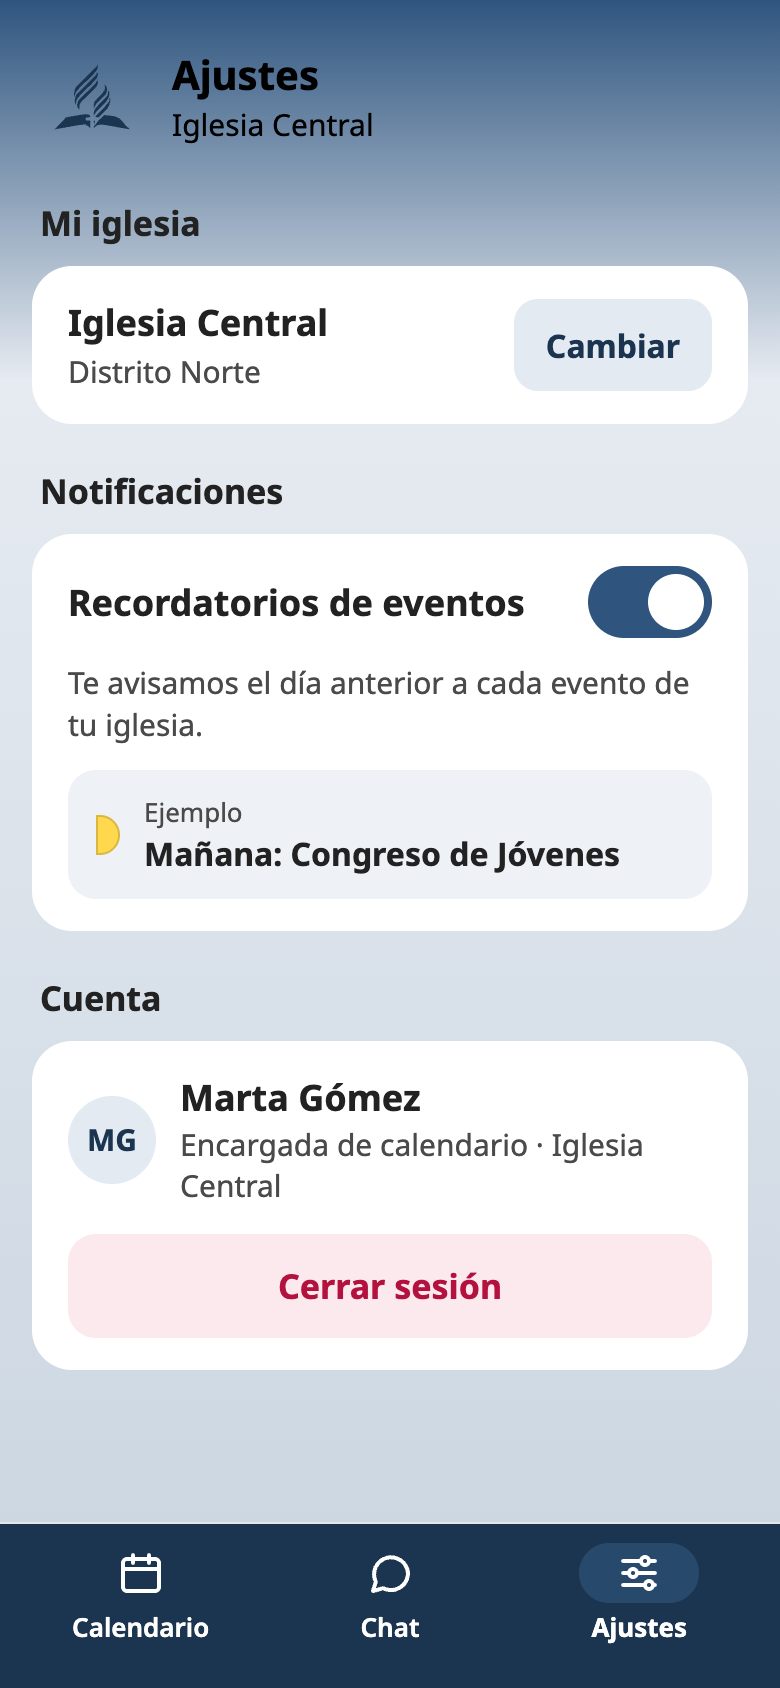
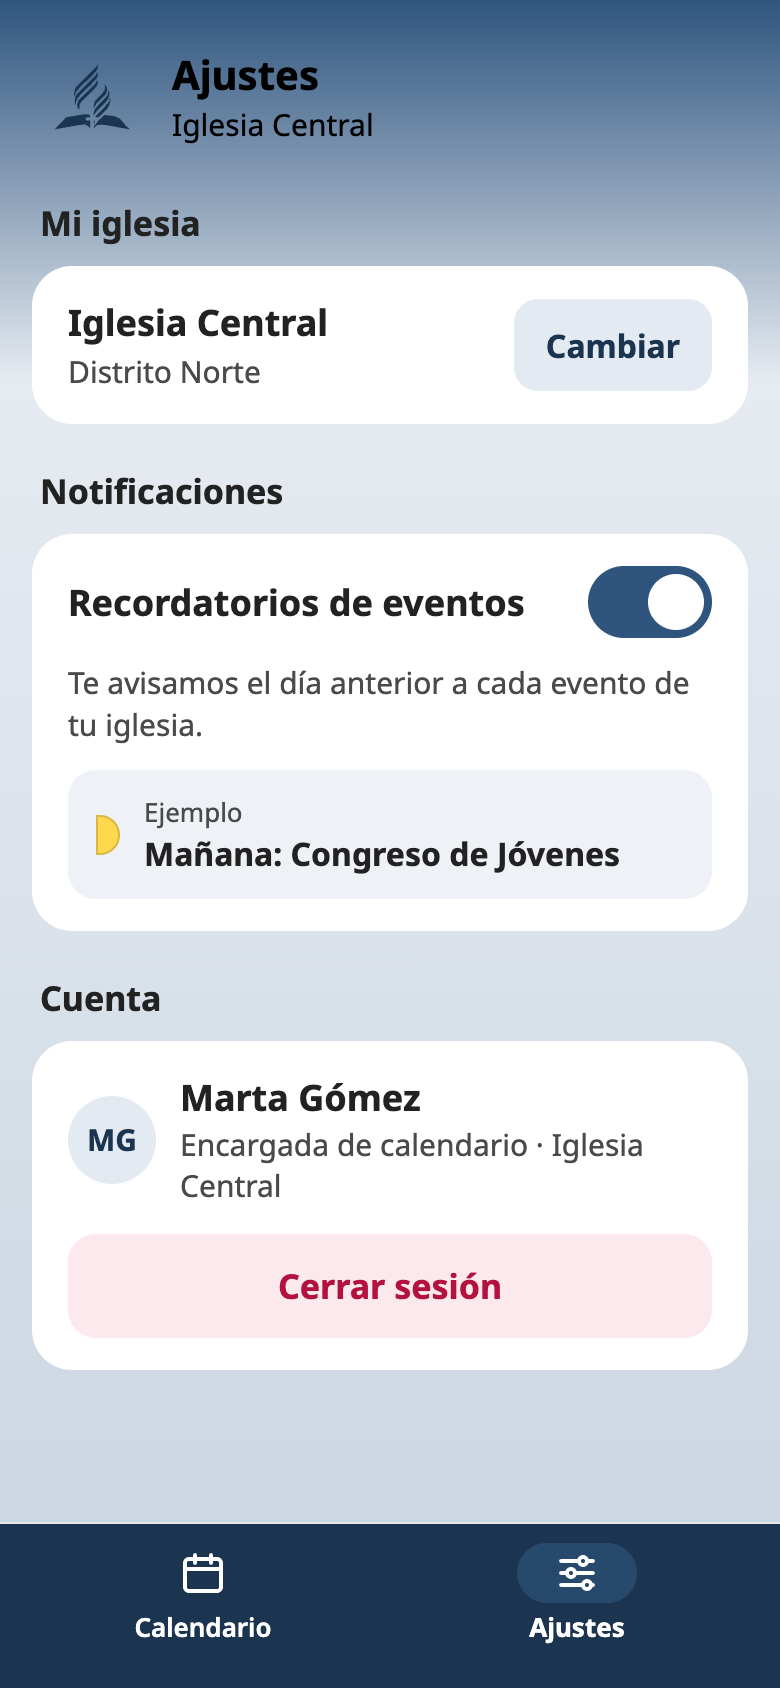
docs(diseno): remove the Chat tab from the bottom navigation mockups

Changed region(s): [[0.6462, 0.8934, 0.8923, 0.9858], [0.0923, 0.9242, 0.3385, 0.9858], [0.4615, 0.9242, 0.5231, 0.9858]]

diff --git a/diseno/pantallas/04a-calendario.html b/diseno/pantallas/04a-calendario.html
@@ -173,10 +173,6 @@ body{margin:0}
       <span style="display: flex; padding: 3px 18px; border-radius: 999px; color: #ffffff; background-color: #27496C; opacity: 1"><svg width="24" height="24" viewBox="0 0 24 24" fill="none" stroke="currentColor" stroke-width="2" stroke-linecap="round" stroke-linejoin="round"><rect x="3" y="5" width="18" height="16" rx="2"></rect><path d="M3 10h18M8 3v4M16 3v4"></path></svg></span>
       Calendario
     </a>
-    <a href="Chat.dc.html" style="flex: 1; display: flex; flex-direction: column; align-items: center; gap: 3px; min-height: 58px; justify-content: center; text-decoration: none; color: #ffffff; font-size: 13px; font-weight: 600">
-      <span style="display: flex; padding: 3px 18px"><svg width="24" height="24" viewBox="0 0 24 24" fill="none" stroke="currentColor" stroke-width="2" stroke-linecap="round" stroke-linejoin="round"><path d="M21 12a8.5 8.5 0 0 1-12.4 7.6L3.5 21l1.4-4.6A8.5 8.5 0 1 1 21 12z"></path></svg></span>
-      Chat
-    </a>
     <sc-if value="{{ pastor }}" hint-placeholder-val="{{ false }}">
       <a href="GestionPastor.dc.html" style="flex: 1; display: flex; flex-direction: column; align-items: center; gap: 3px; min-height: 58px; justify-content: center; text-decoration: none; color: #ffffff; font-size: 13px; font-weight: 600">
         <span style="display: flex; padding: 3px 18px"><svg width="24" height="24" viewBox="0 0 24 24" fill="none" stroke="currentColor" stroke-width="2" stroke-linecap="round" stroke-linejoin="round"><circle cx="9" cy="8" r="3.5"></circle><path d="M2.5 20c0-3.6 2.9-6 6.5-6s6.5 2.4 6.5 6"></path><path d="M16 4.6a3.5 3.5 0 0 1 0 6.8M18 14.4c2 .8 3.5 2.7 3.5 5.6"></path></svg></span>

diff --git a/diseno/pantallas/10-ajustes.html b/diseno/pantallas/10-ajustes.html
@@ -86,10 +86,6 @@ a{color:#1B3550}a:hover{color:#10233A}
       <span style="display: flex; padding: 3px 18px"><svg width="24" height="24" viewBox="0 0 24 24" fill="none" stroke="currentColor" stroke-width="2" stroke-linecap="round" stroke-linejoin="round"><rect x="3" y="5" width="18" height="16" rx="2"></rect><path d="M3 10h18M8 3v4M16 3v4"></path></svg></span>
       Calendario
     </a>
-    <a href="Chat.dc.html" style="flex: 1; display: flex; flex-direction: column; align-items: center; gap: 3px; min-height: 58px; justify-content: center; text-decoration: none; color: #ffffff; font-size: 13px; font-weight: 600">
-      <span style="display: flex; padding: 3px 18px"><svg width="24" height="24" viewBox="0 0 24 24" fill="none" stroke="currentColor" stroke-width="2" stroke-linecap="round" stroke-linejoin="round"><path d="M21 12a8.5 8.5 0 0 1-12.4 7.6L3.5 21l1.4-4.6A8.5 8.5 0 1 1 21 12z"></path></svg></span>
-      Chat
-    </a>
     <a href="Ajustes.dc.html" aria-current="page" style="flex: 1; display: flex; flex-direction: column; align-items: center; gap: 3px; min-height: 58px; justify-content: center; text-decoration: none; color: #ffffff; font-size: 13px; font-weight: 700">
       <span style="display: flex; padding: 3px 18px; border-radius: 999px; background-color: #27496C"><svg width="24" height="24" viewBox="0 0 24 24" fill="none" stroke="currentColor" stroke-width="2" stroke-linecap="round" stroke-linejoin="round"><path d="M4 6h9M17 6h3M4 12h3M11 12h9M4 18h11M19 18h1"></path><circle cx="15" cy="6" r="2"></circle><circle cx="9" cy="12" r="2"></circle><circle cx="17" cy="18" r="2"></circle></svg></span>
       Ajustes
